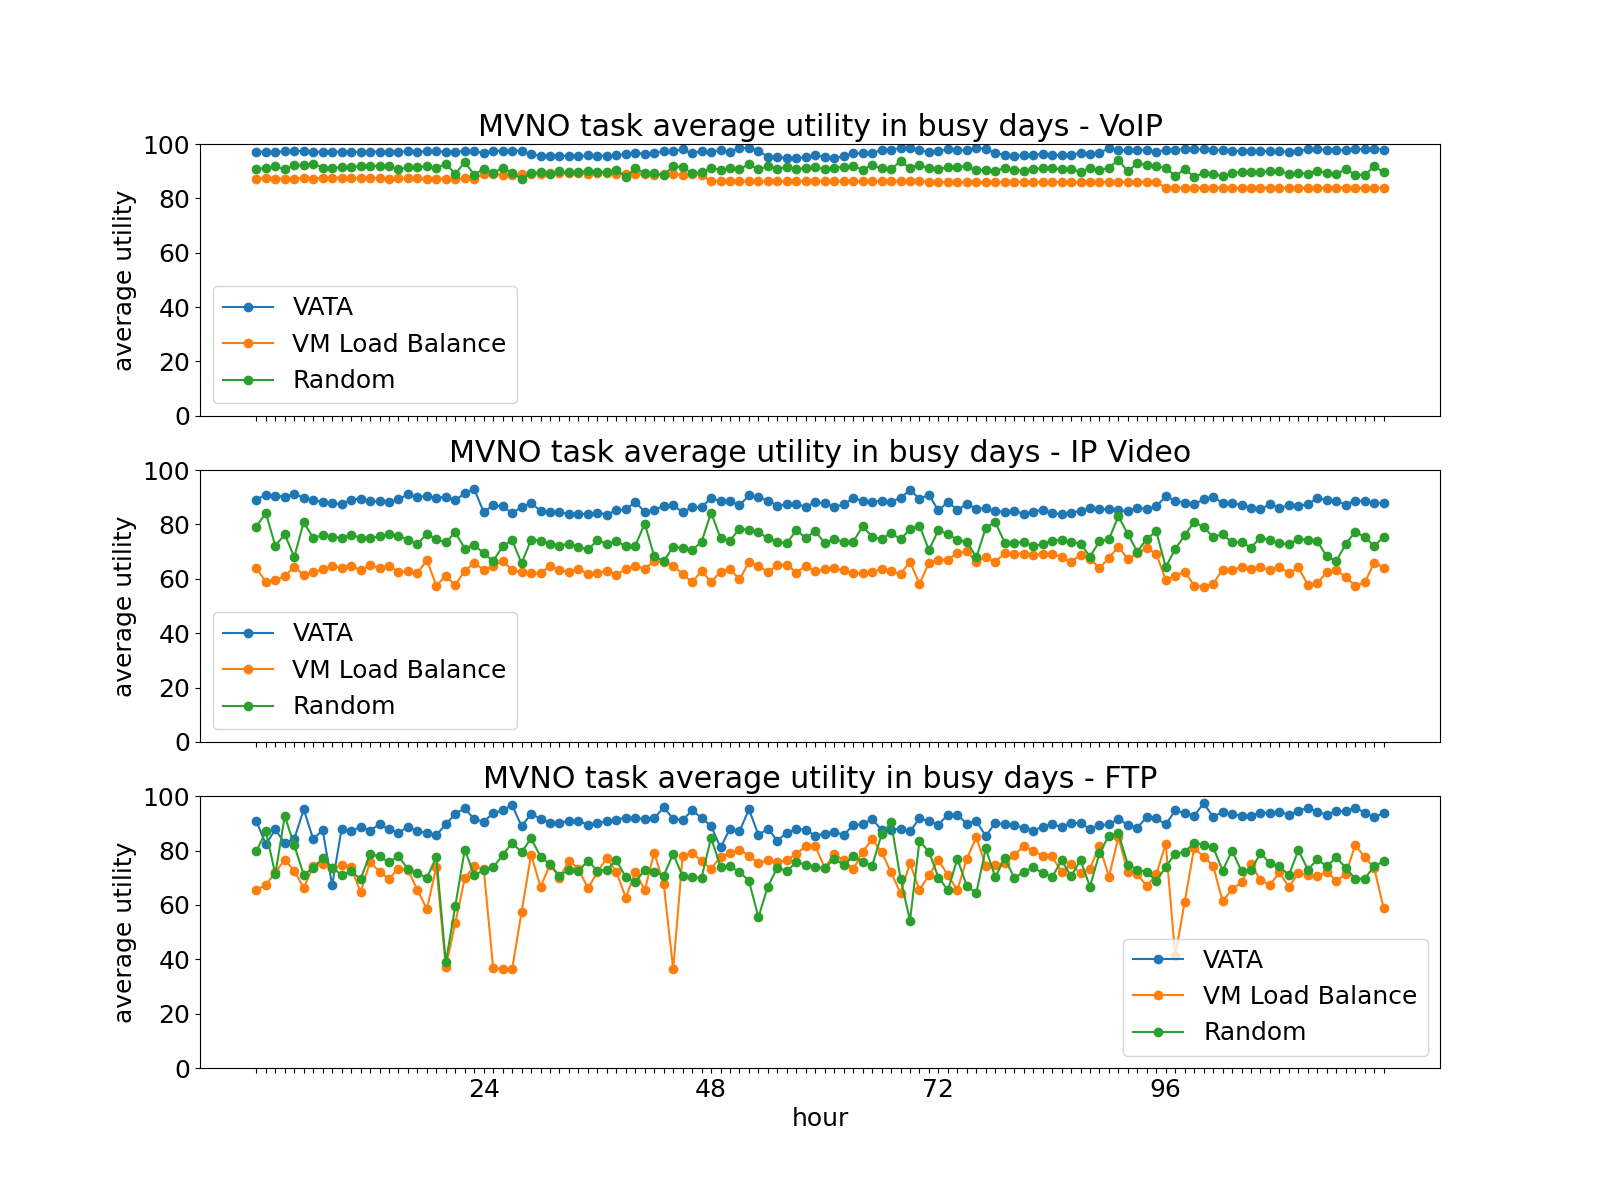
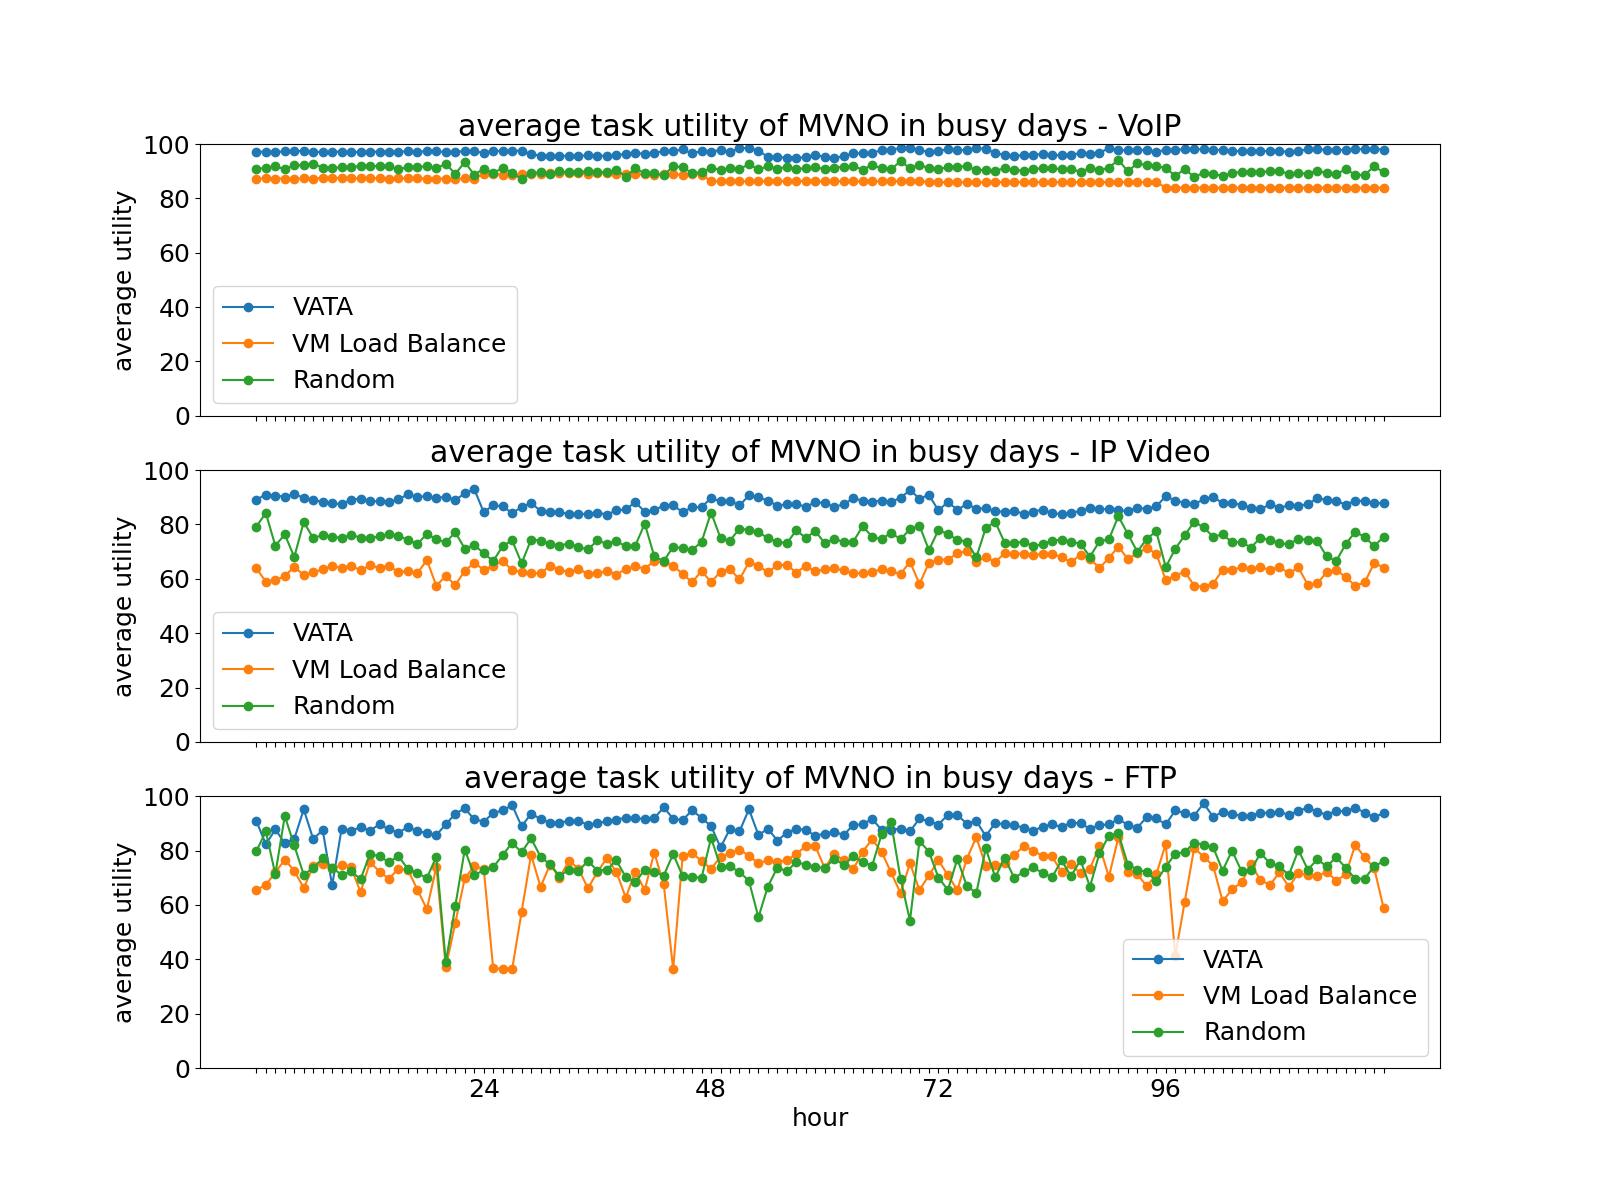
Fix Plotting title.

Changed region(s): [[0.2812, 0.6167, 0.7188, 0.6783], [0.2812, 0.37, 0.75, 0.4008], [0.2812, 0.0925, 0.75, 0.1233]]

diff --git a/plot_metrics_compare.py b/plot_metrics_compare.py
@@ -347,9 +347,9 @@ def plot_hour_data():
 plot_3x3('mno_vm_resource', 'MNO/', 'MNO VM', 'round', 'vm_resource', None)
 plot_3x3('mvno_vm_resource', 'MVNO/', 'MVNO VM', 'round', 'vm_resource', None)
 plot_1d('mvno_vm_cost', 'MVNO VM cost', 'round', 'VM total cost(dollar)', 'MVNO/vm_cost', plot_2dim_line, None)
-plot_2d('mno_task_fitness', 'MNO/', 'MNO task average utility in busy days', 'average utility', 'task_fitness', (0, 100))
+plot_2d('mno_task_fitness', 'MNO/', 'average task utility of MNO in busy days', 'average utility', 'task_fitness', (0, 100))
 plot_3x3('mno_task_resource', 'MNO/', 'MNO task', 'hour', 'task_resource', None)
-plot_2d('mvno_task_fitness', 'MVNO/', 'MVNO task average utility in busy days', 'average utility', 'task_fitness', (0, 100))
+plot_2d('mvno_task_fitness', 'MVNO/', 'average task utility of MVNO in busy days', 'average utility', 'task_fitness', (0, 100))
 plot_3x3('mvno_task_resource', 'MVNO/', 'MVNO task', 'hour', 'task_resource', None)
 plot_2d('mno_block_rate', 'MNO/', 'MNO task blocking ratio', 'blocking ratio', 'task_block_rate', (0, 1))
 plot_2d('mvno_block_rate', 'MVNO/', 'MVNO task blocking ratio', 'blocking ratio', 'task_block_rate', (0, 1))
